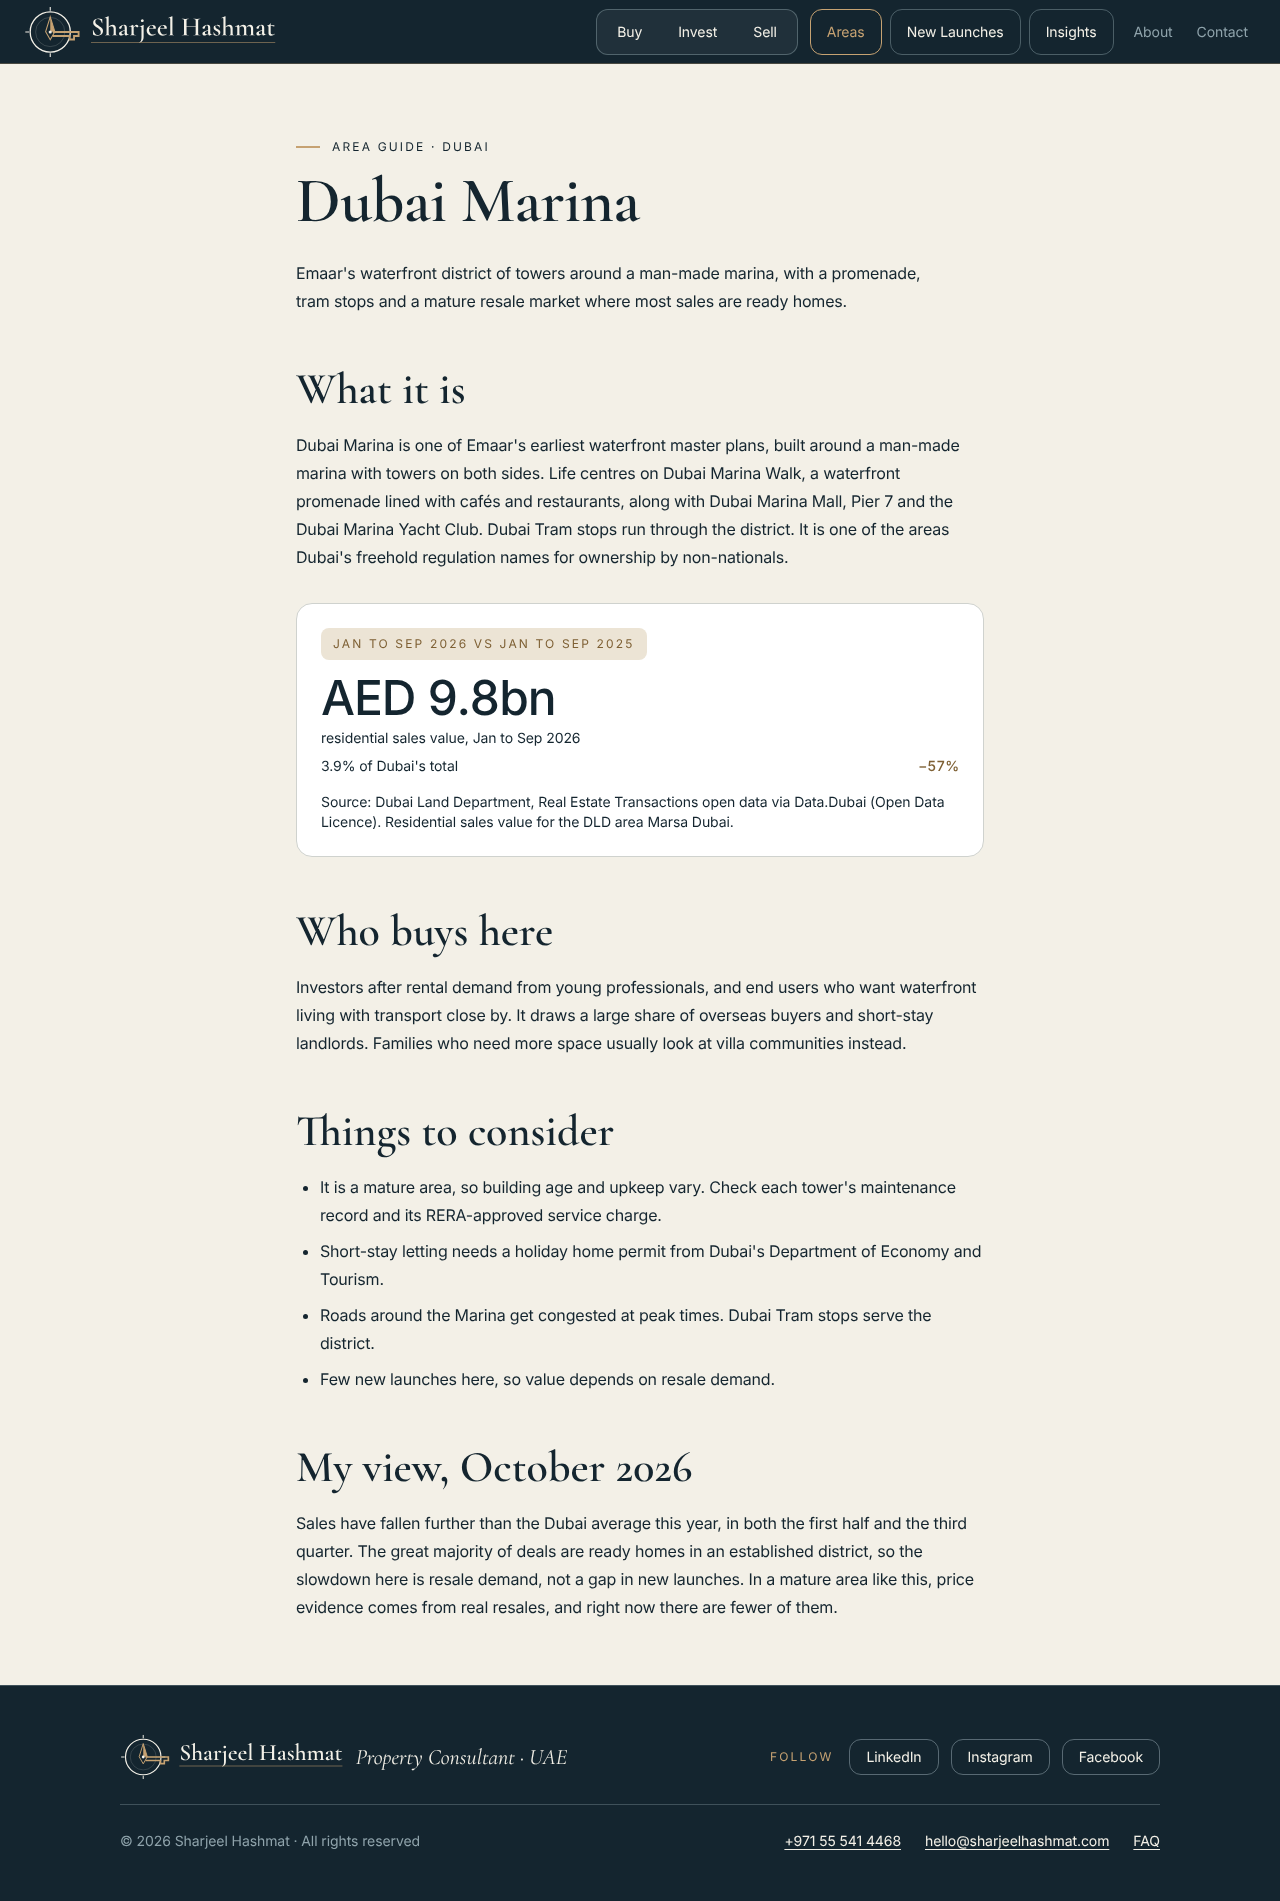
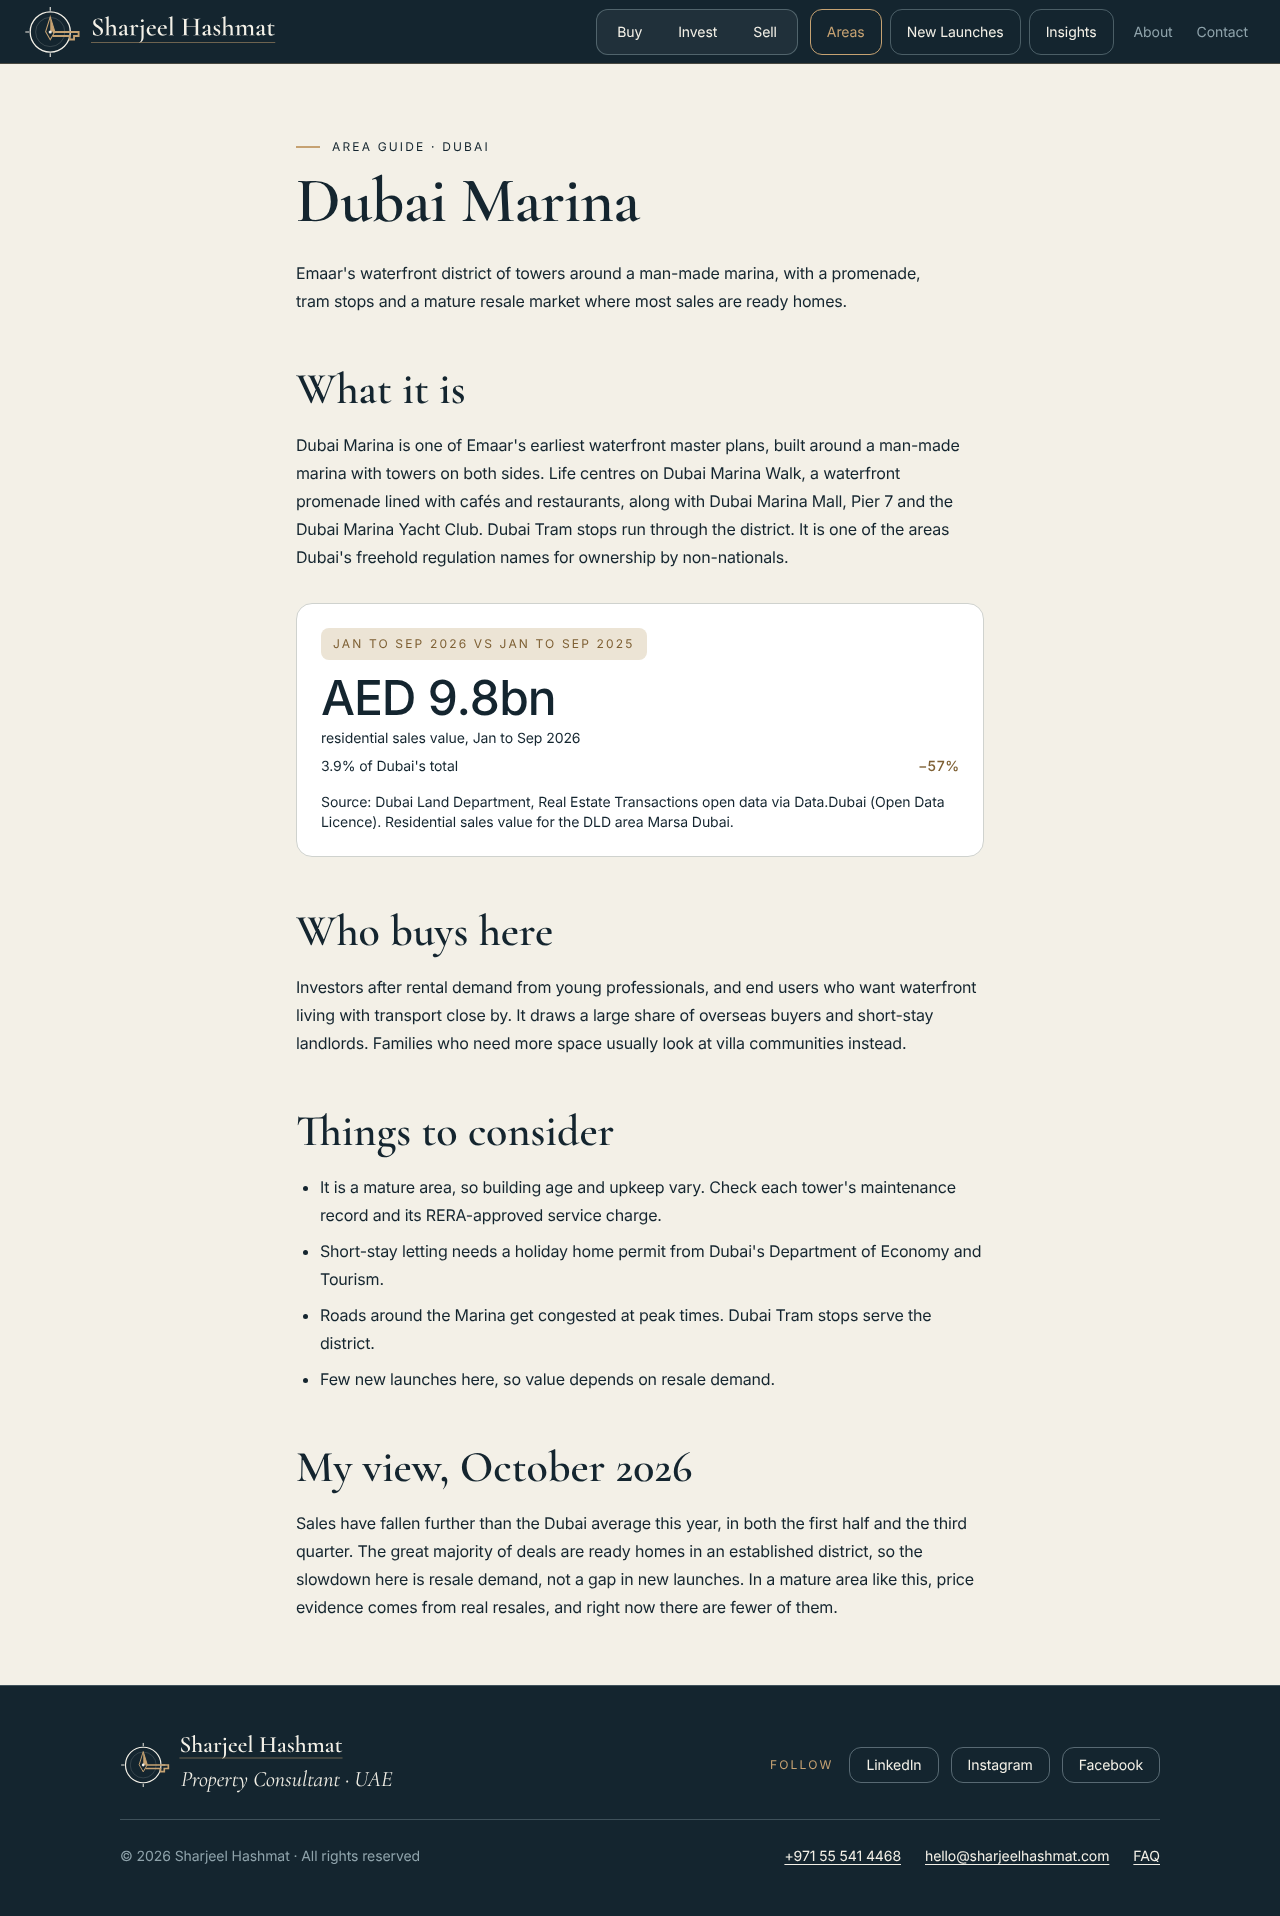
feat(site): stacked footer lockup, title below the wordmark
Owner 2026-11-07 ("Property Consultant has to go below"), stacked layout.
The title "Property Consultant · UAE" now sits on its own line under the
"Sharjeel Hashmat" wordmark, its left edge on the start of the wordmark
text, 4px under it, with the mark centred against both lines. The approved
logo file is shown twice and cropped by CSS (mark, wordmark); the file is
unchanged. Same font, size, colour and wording. Header unchanged.

- tests/e2e/footer.e2e.mjs: at 320, 375, 768 and 1280 the title top is
  below the wordmark bottom, left edges match within 1px, 4 to 8px gap,
  mark centred, one line each, no horizontal scroll, header unchanged.
- Screenshots: site/docs/screenshots/footer-lockup (before and after, 375
  and 1280); charts/after refreshed.

Claude-Session: https://claude.ai/code/session_015pNCMjqTT9femwr4Vxxvf9

diff --git a/site/src/styles/global.css b/site/src/styles/global.css
@@ -257,9 +257,18 @@ a.card:hover { border-color: var(--navy); }
 .site-footer .small, .site-footer .fine { color: var(--slate-light); }
 .site-footer .status.ok { color: var(--ivory); }
 .site-footer .status.bad { color: var(--gold); }
-.site-footer .brand { color: var(--ivory); flex-wrap: wrap; }
-/* The title beside the footer logo: the Cormorant tagline style (Cormorant never below 22px). */
-.site-footer .brand span { font-family: var(--serif); font-style: italic; font-weight: 400; font-size: var(--fs-tagline); line-height: var(--lh-tagline); letter-spacing: 0; }
+/* Footer lockup, stacked (owner 2026-11-07): mark | wordmark over title. logo-web-ivory.svg at 46px tall is 223.7px wide
+   (viewBox 205 225 2480 510, so 1px = 11.09 units). The mark's ink ends at x 48.3px and the wordmark's underline starts at
+   59.2px, so the mark crop is the first 52px and the wordmark crop starts there: horizontally the lockup is unchanged. The
+   wordmark's ink runs from y 9.0px to 32.6px, so its crop is y 8px to 33px (25px tall). The "Sharjeel Hashmat" text starts
+   at x 60.9px, 8.9px into the wordmark crop: the title's column starts there. The mark (46px) is centred against the
+   wordmark, the 4px gap and the title. */
+.site-footer .brand { color: var(--ivory); display: grid; grid-template-columns: 52px 8.9px max-content; grid-template-rows: 25px auto; gap: var(--space-1) 0; align-items: start; }
+.site-footer .brand-mark { grid-column: 1; grid-row: 1 / 3; align-self: center; width: 52px; height: 46px; overflow: hidden; }
+.site-footer .brand-word { grid-column: 2 / 4; grid-row: 1; width: 172px; height: 25px; overflow: hidden; }
+.site-footer .brand-word .logo { transform: translate(-52px, -8px); }
+/* The title under the wordmark: the Cormorant tagline style (Cormorant never below 22px), on one line at every width. */
+.site-footer .brand span { grid-column: 3; grid-row: 2; white-space: nowrap; font-family: var(--serif); font-style: italic; font-weight: 400; font-size: var(--fs-tagline); line-height: var(--lh-tagline); letter-spacing: 0; }
 .foot-row { display: flex; flex-wrap: wrap; gap: var(--space-4) var(--space-8); justify-content: space-between; align-items: center; }
 .foot-row + .foot-row { margin-top: var(--space-6); padding-top: var(--space-6); border-top: 1px solid color-mix(in srgb, var(--slate-light) 35%, transparent); }
 .foot-links { display: flex; flex-wrap: wrap; gap: var(--space-3) var(--space-6); font-size: var(--fs-small); line-height: var(--lh-small); letter-spacing: var(--ls-small); }
